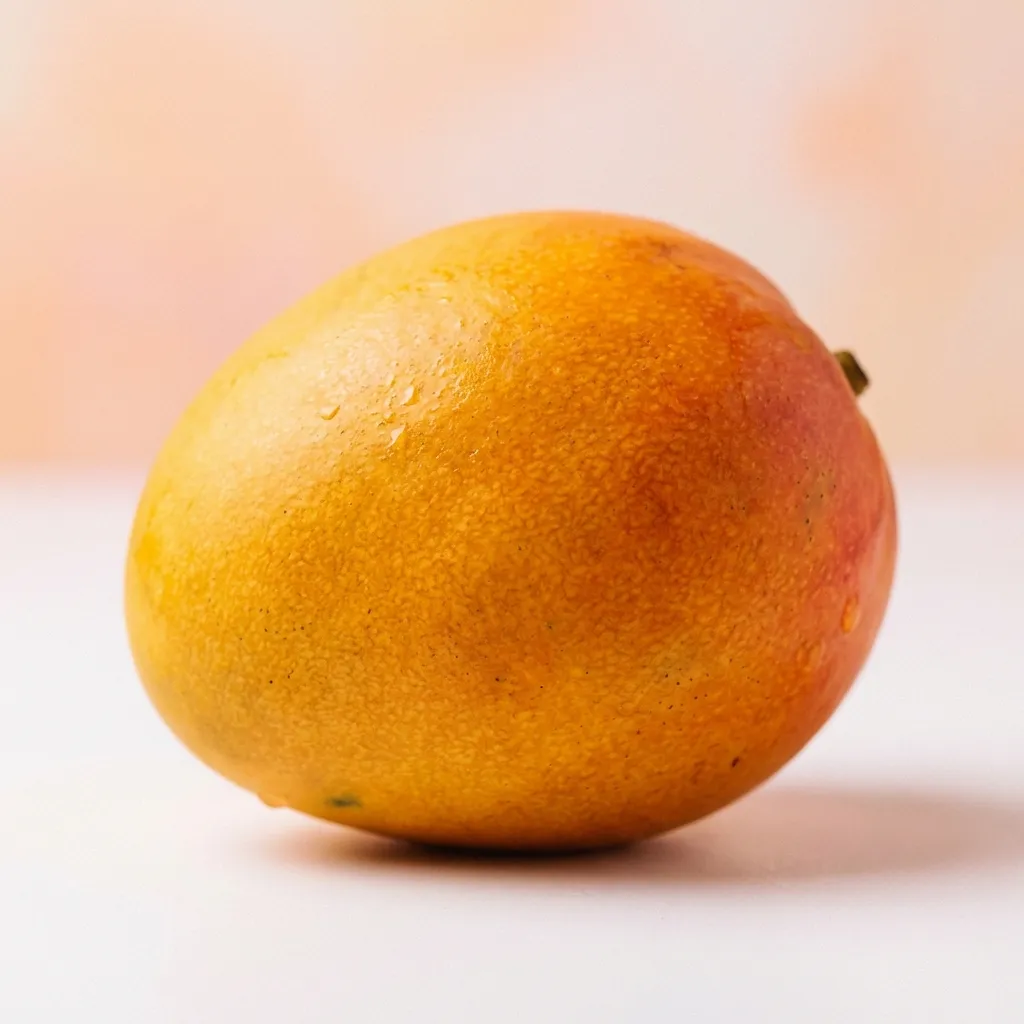
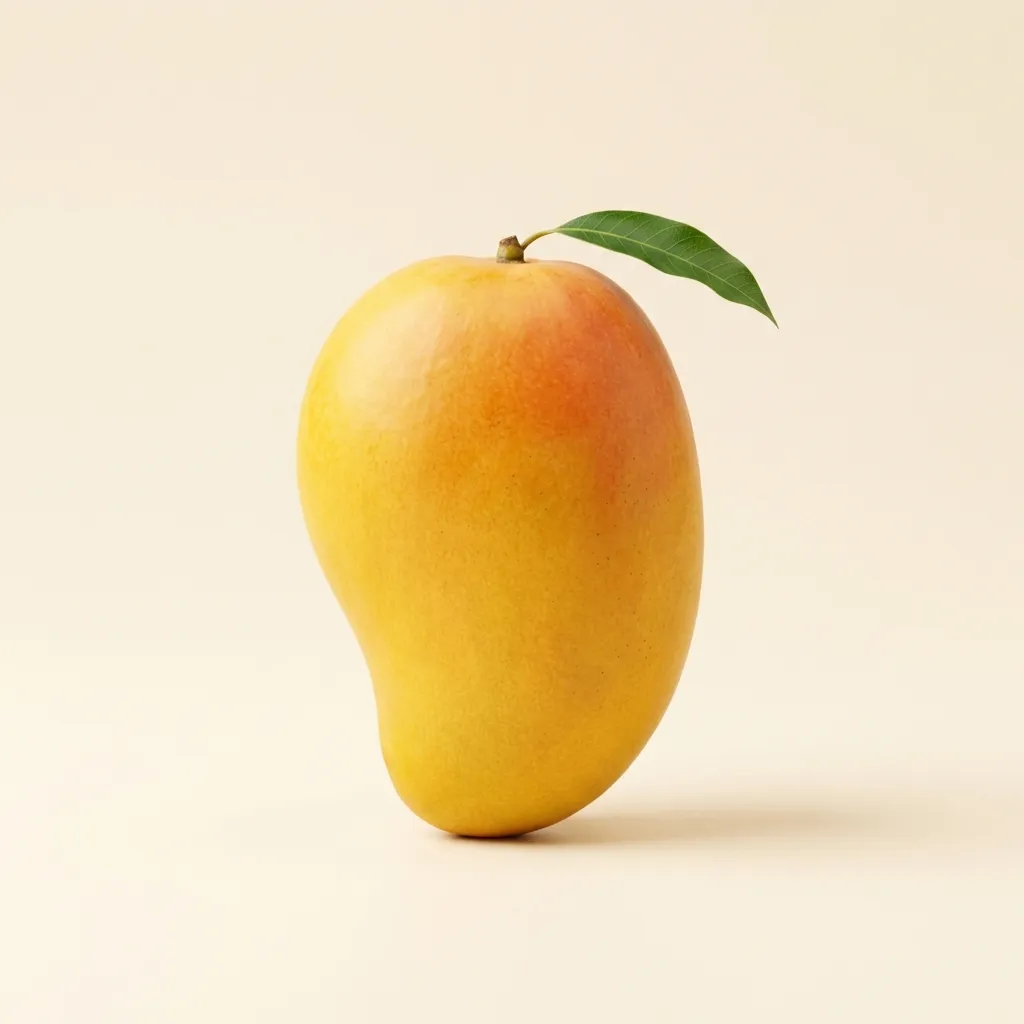
fix: Regenerate mango image with clearer Alphonso shape and leaf
Updated prompt to specify classic kidney shape with green leaf for
better recognizability.

diff --git a/scripts/generate_object_images.py b/scripts/generate_object_images.py
@@ -186,7 +186,7 @@ ITEMS = {
         "grapes": "a bunch of purple grapes on a small vine stem",
         "strawberry": "a fresh red strawberry with green leaves on top",
         "watermelon": "a slice of watermelon showing red flesh and green rind",
-        "mango": "a ripe yellow-orange mango, whole fruit",
+        "mango": "a single ripe Alphonso mango with the classic curved kidney shape, golden yellow skin with a slight orange-red blush, small stem with a green leaf visible at the top",
         "pineapple": "a whole pineapple with its spiky green crown",
         "cherry": "a pair of red cherries with stems and a green leaf",
         "peach": "a ripe fuzzy peach with a small leaf, warm pink-orange color",
